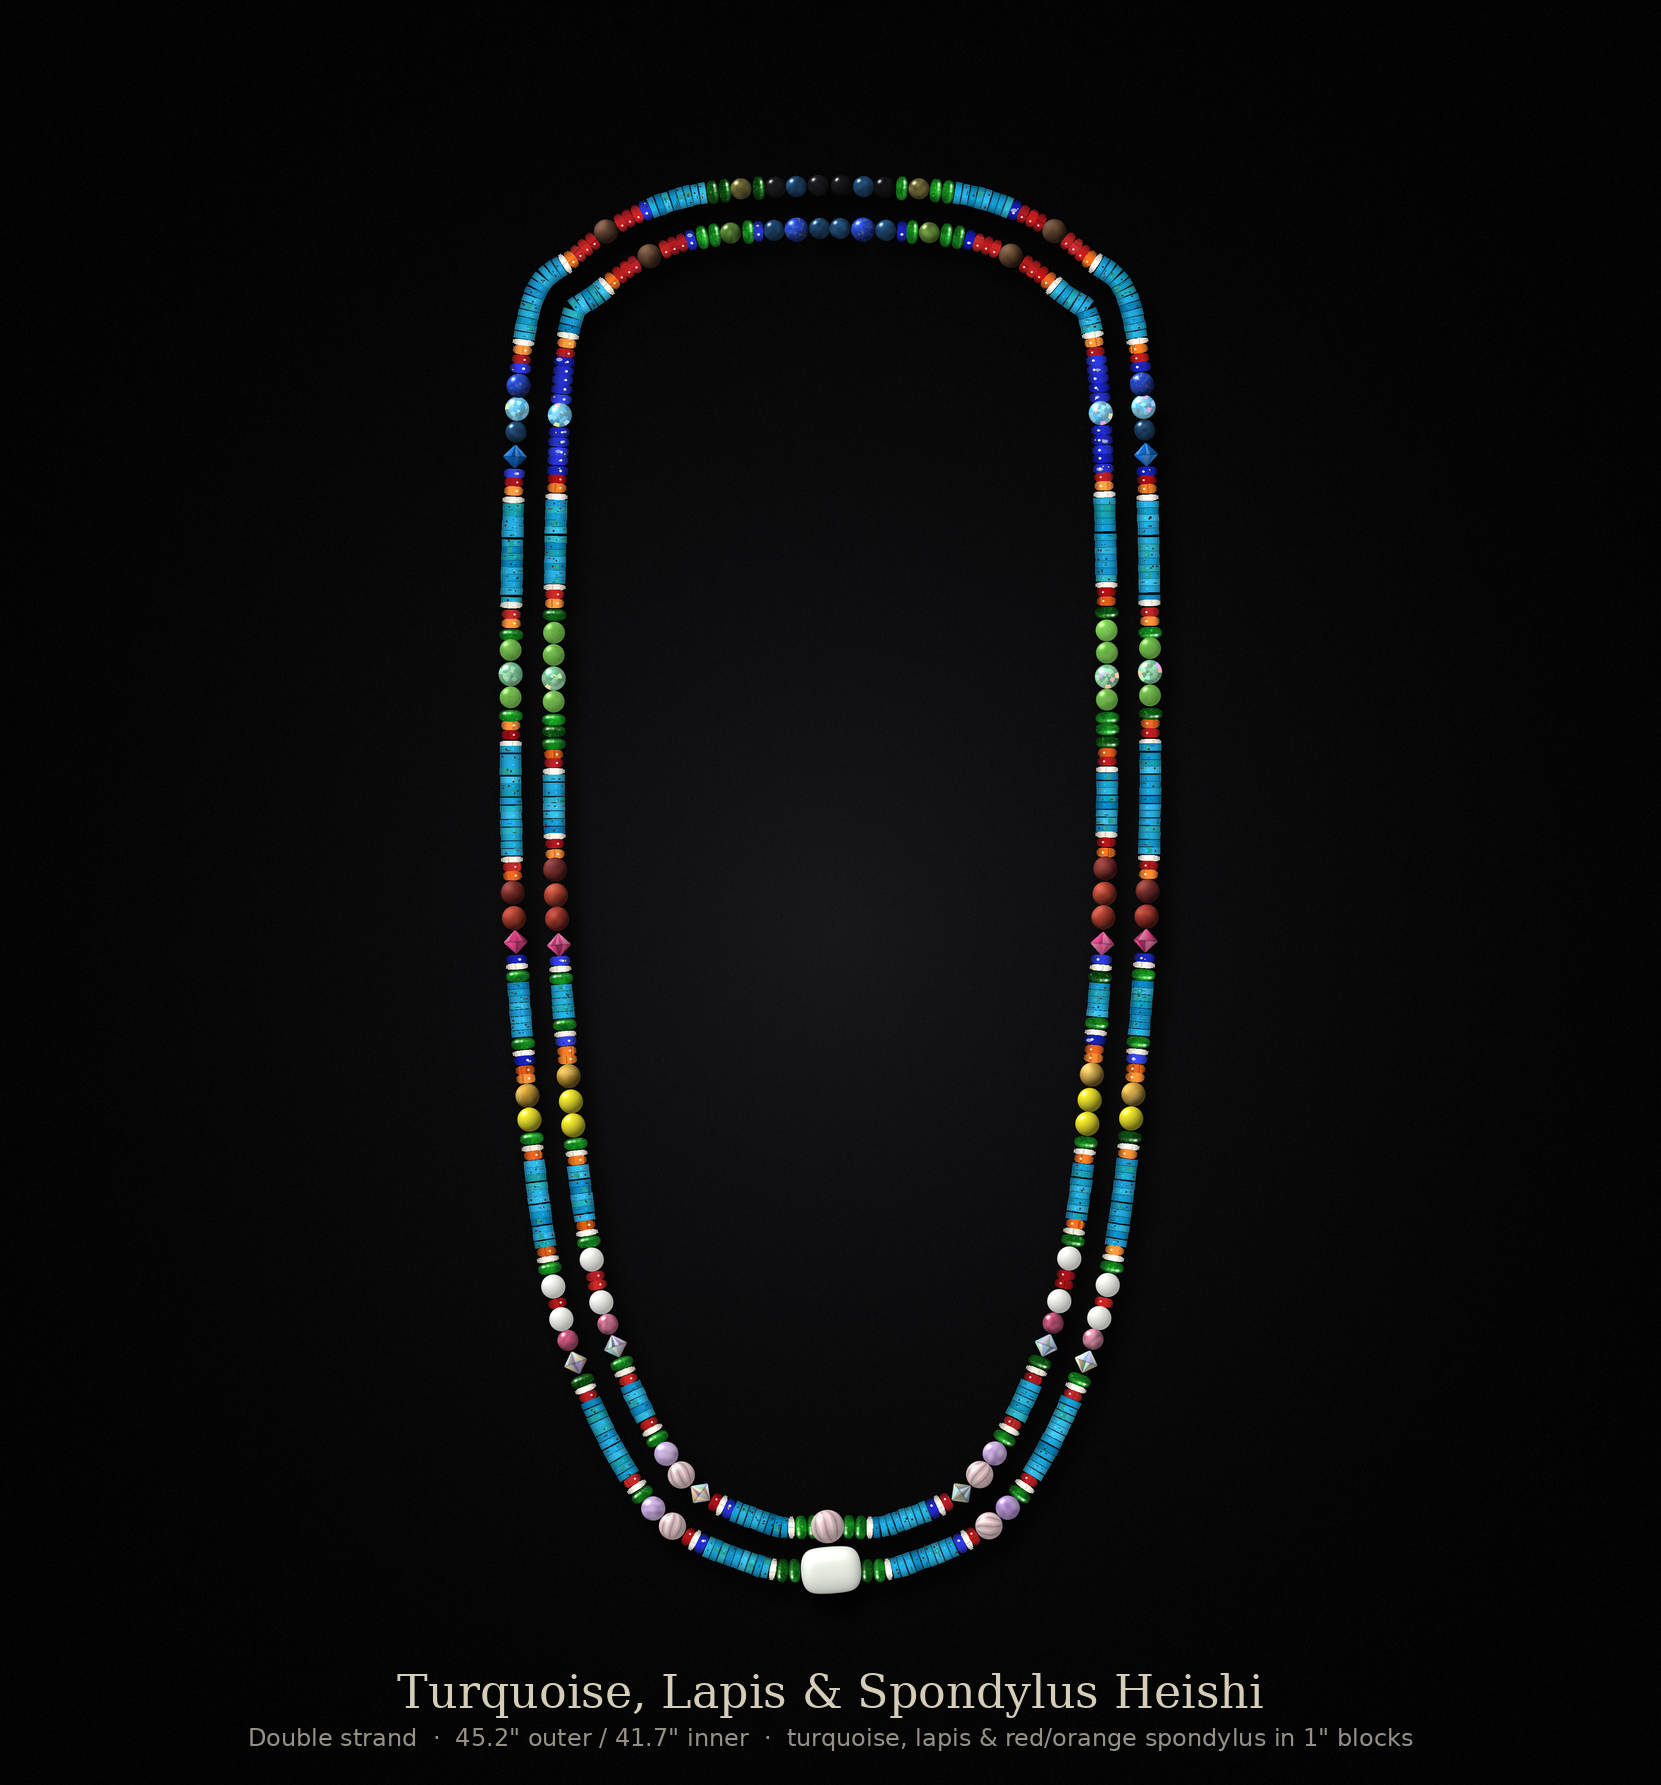
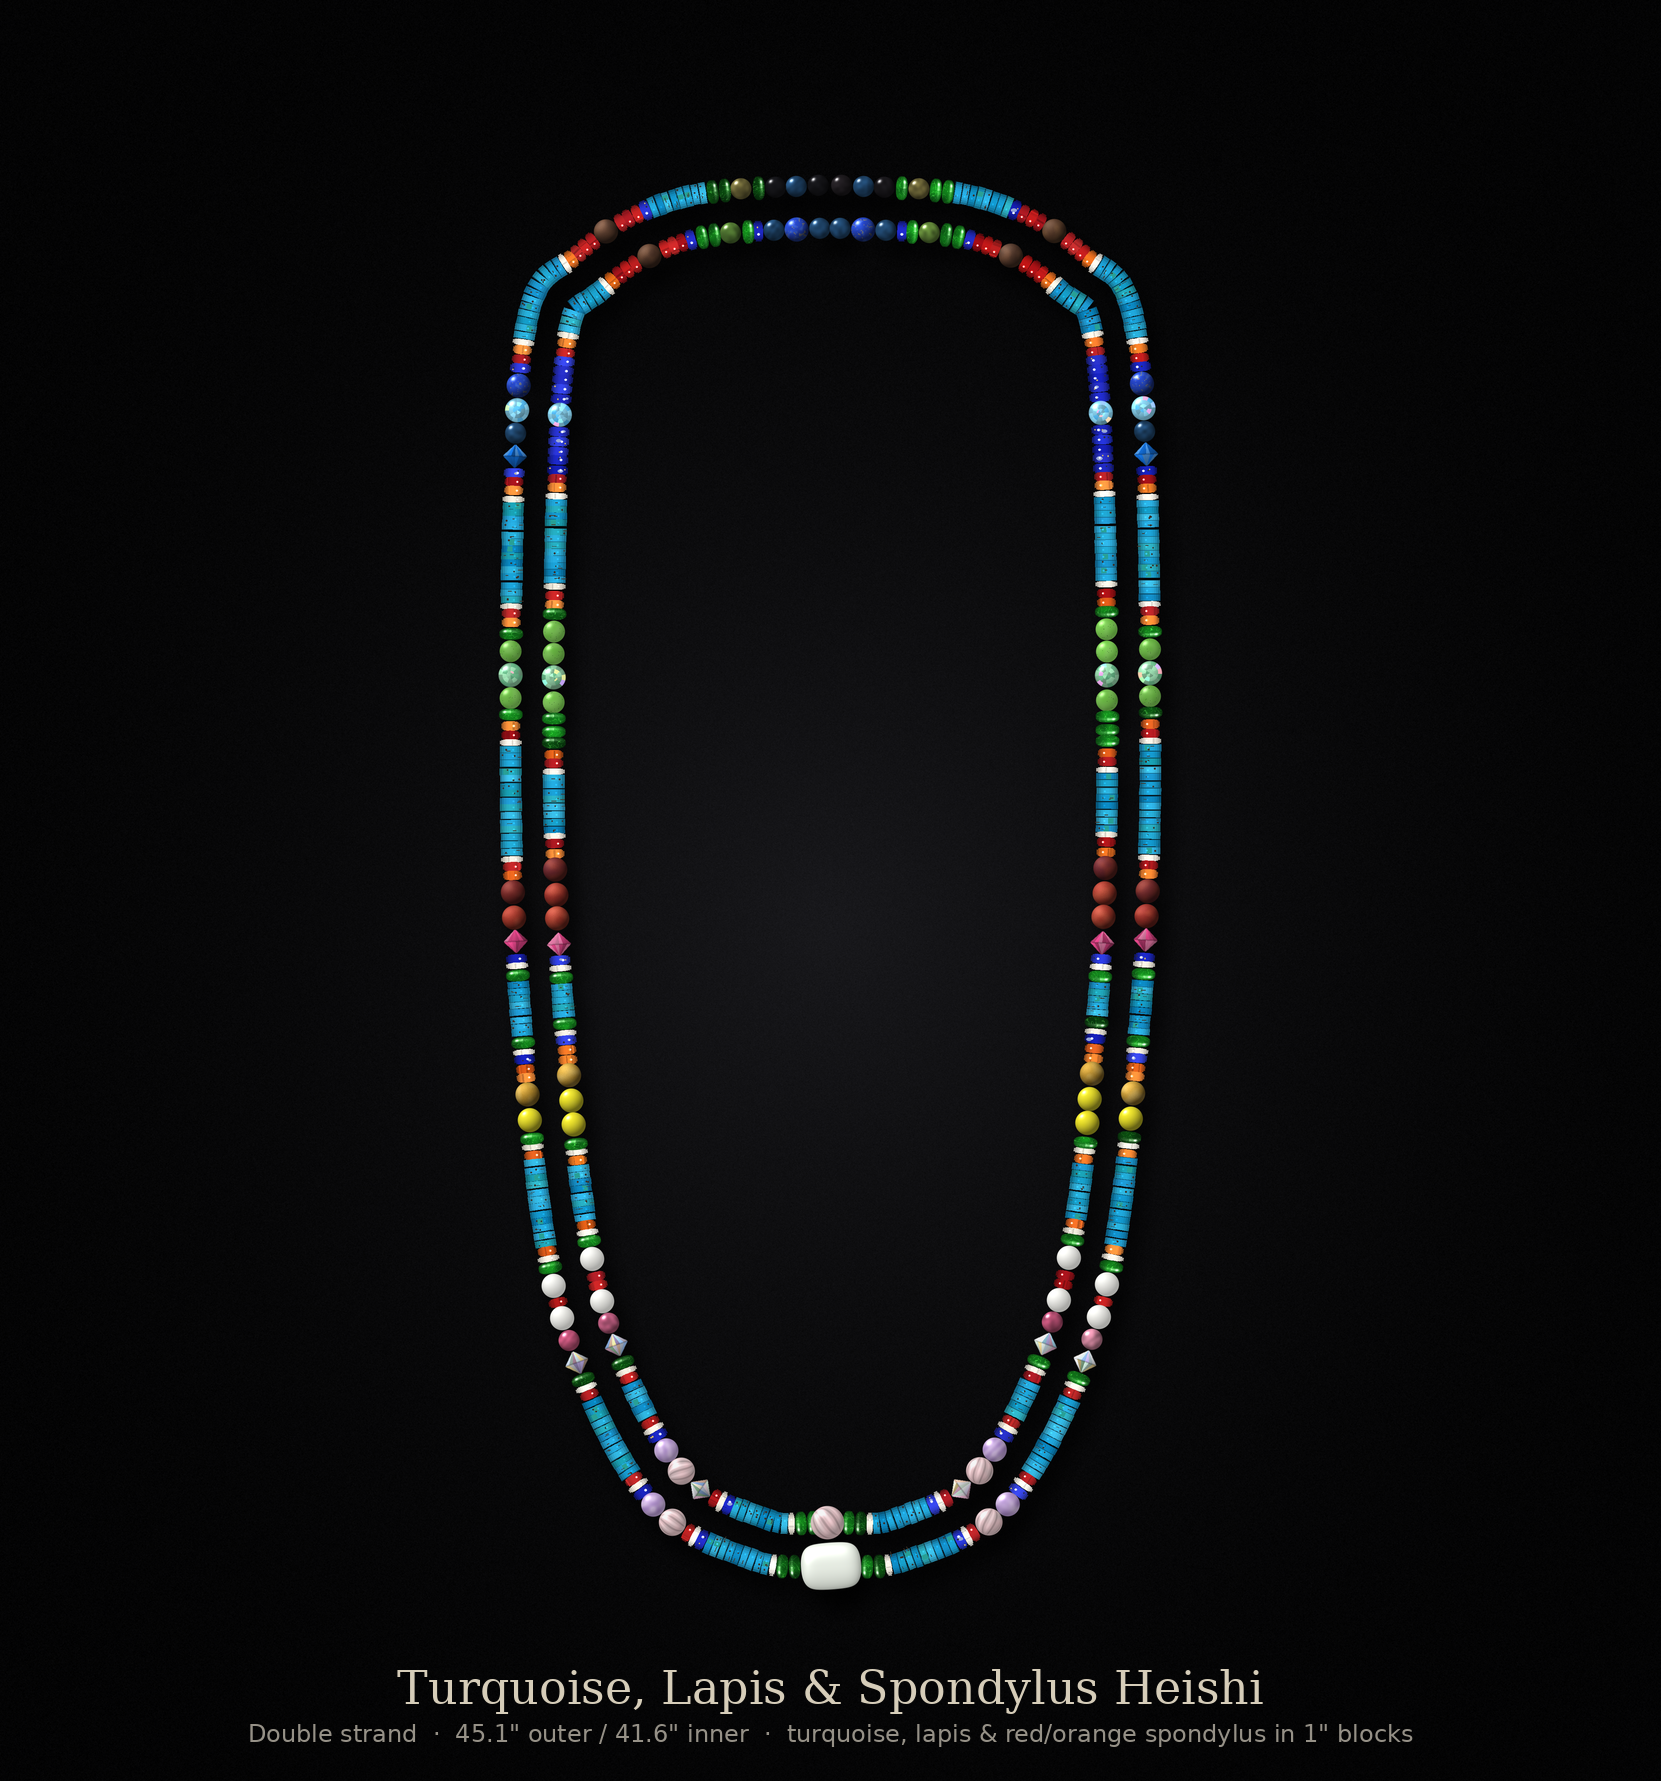
Version 5: blue lapis instead of green above the amethyst / rose quartz
Claude-Session: https://claude.ai/code/session_014be1vF4Rdf8sv9Si75Gudv

Changed region(s): [[0.2763, 0.1544, 0.7062, 0.8956], [0.3992, 0.1235, 0.4299, 0.1544]]

diff --git a/necklace/render_necklace.py b/necklace/render_necklace.py
@@ -19,7 +19,7 @@ V5_EXT2 = 3.0 if V5 else 0.0             # v5: bottom band's lowest red glass be
 V5_EXT3 = 0.0                            # (red above the bicone removed again)             # v5: red spiny oyster above each mookaite-band rose bicone (+3 mm per side)
 V5_EXT4 = 7.0 if V5 else 0.0             # v5: a pink tourmaline moves from the outer to the inner bottom band (+7 mm per side)
 V5_EXT5 = 5 * 2.0 if V5 else 0.0         # v5: white conch at the 5 lower orange/green borders per strand side (+10 mm per side)
-V5_EXT6 = -3.0 - 1.0 if V5 else 0.0      # (and -1 mm: lapis replaces the 4 mm diopside by the centre-side conch)            # v5: red above the white-section AB bicones removed (-3 mm per side)
+V5_EXT6 = -3.0 - 1.0 - 1.0 if V5 else 0.0   # (and -1 mm: lapis replaces the diopside above the amethyst)      # (and -1 mm: lapis replaces the 4 mm diopside by the centre-side conch)            # v5: red above the white-section AB bicones removed (-3 mm per side)
 V5_EXT7 = 2.0 if V5 else 0.0             # v5: white conch beside the centre diopside (+2 mm per side)
 V5_EXT8 = 3 * 2.0 if V5 else 0.0         # v5: white conch outside the oranges that touch turquoise, top red + blue bands (+6 mm per side)
 V5_EXT9 = 3 * 2.0 if V5 else 0.0         # v5: white conch between red and turquoise, green and mookaite bands (+6 mm per side)
@@ -1473,6 +1473,8 @@ if V4:
                 assert STN[7][-1] == "orange" and STN[8][0] == "orange"
                 assert STN[7][-1] == "orange" and STN[8][0] == "orange"
                 STN[7][-1] = STN[8][0] = "red"                 # turquoise run between white and rose sections: red borders
+                assert STN[8][1:4] == ["conch", "diop", "amet"], STN[8]
+                STN[8][2] = "lapisH"                           # green above the amethyst / rose quartz -> blue lapis
                 print(f"v5 strand {st} swapped 7/8 gaps", [round(float(x), 1) for x in gaps])
             g = 0.0
             lap = LAP_BUDGET[st]
